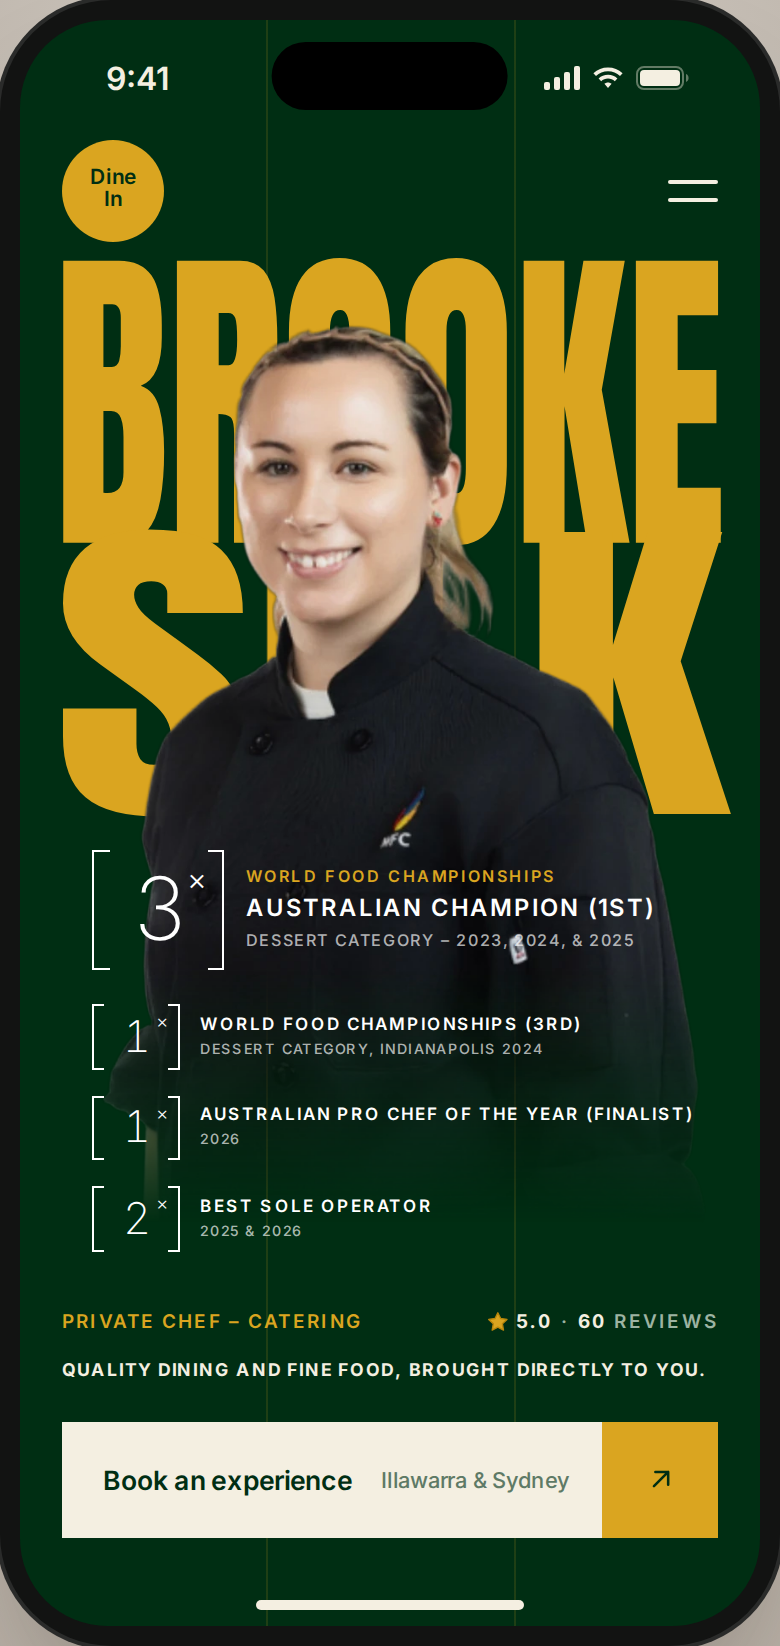
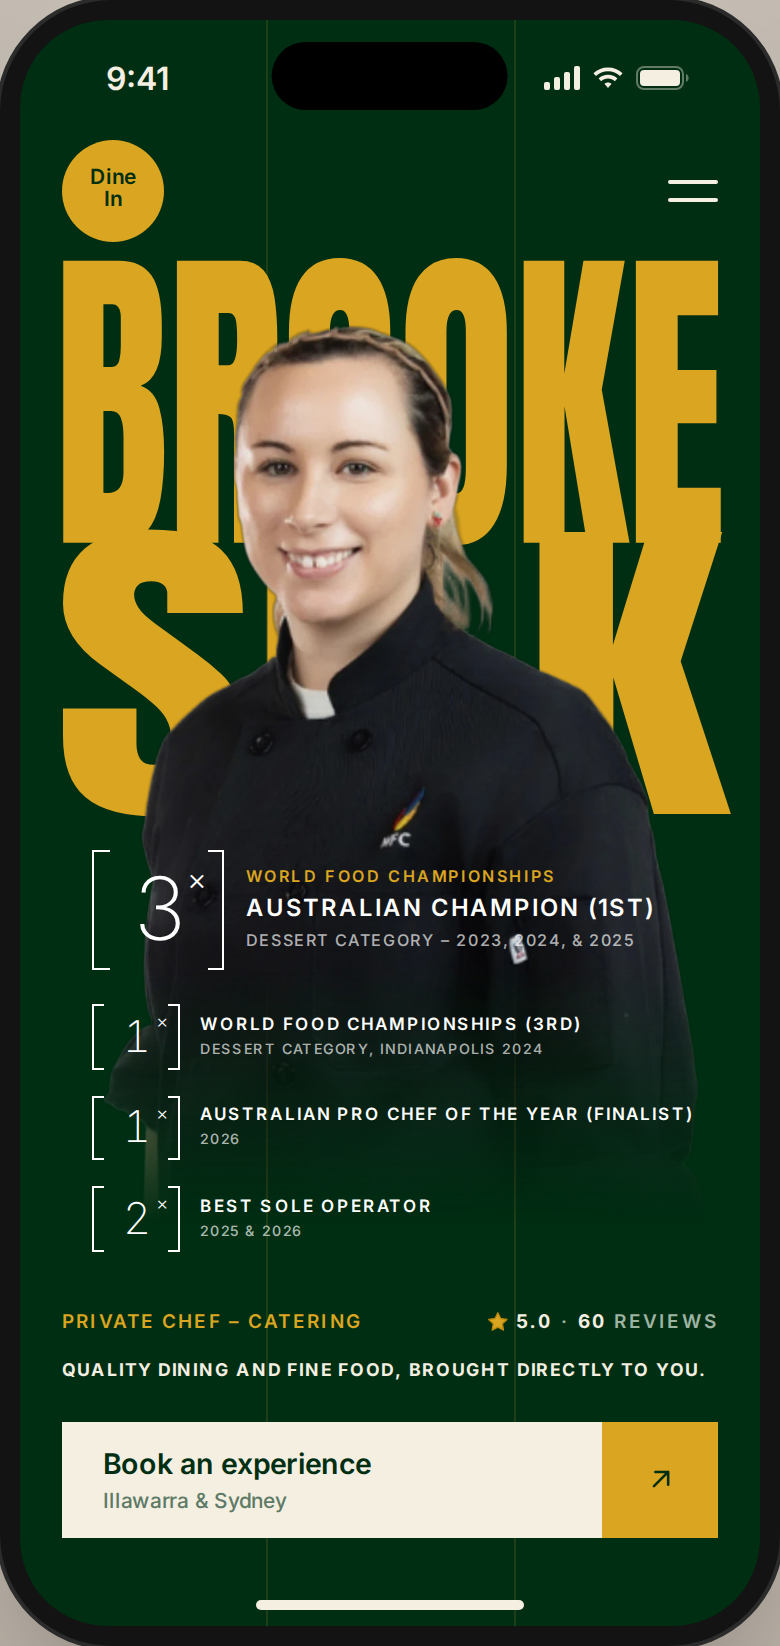
Chef card: service area under the button label
"Illawarra & Sydney" now sits under "Book an experience", left aligned,
instead of beside it. The label goes back to 15 design units, and the
note is 11.

Claude-Session: https://claude.ai/code/session_01Dn2sZdZCxPbGjUxXXUAMP8

Changed region(s): [[0.1231, 0.8676, 0.4923, 0.9295], [0.4923, 0.8985, 0.6154, 0.9295], [0.6462, 0.8985, 0.7077, 0.9295]]

diff --git a/components/chef-card/style.css b/components/chef-card/style.css
@@ -369,14 +369,16 @@
   text-decoration: none;
 }
 
+/* Label on top, service area underneath */
 .ui-chef__cta-label {
   flex: 1;
   display: flex;
-  justify-content: space-between;
-  align-items: center;
-  gap: calc(12 * var(--u));
+  flex-direction: column;
+  justify-content: center;
+  align-items: flex-start;
+  gap: calc(4 * var(--u));
   padding: 0 calc(18 * var(--u)) 0 calc(22 * var(--u));
-  font-size: calc(14 * var(--u));
+  font-size: calc(15 * var(--u));
   font-weight: 600;
   letter-spacing: -0.01em;
   white-space: nowrap;
@@ -385,7 +387,7 @@
 .ui-chef__cta-note {
   white-space: nowrap;
   color: var(--ui-chef-cta-note);
-  font-size: calc(11.5 * var(--u));
+  font-size: calc(11 * var(--u));
   font-weight: 500;
 }
 

diff --git a/components/chef-card/README.md b/components/chef-card/README.md
@@ -17,7 +17,7 @@ The Dine In edition of the [profile card](../profile-card/), for private chef Br
     The bracket shows how many times, and the placing sits in brackets after the title. The lead award has a bigger bracket and title, so it stands out from the three smaller ones below it.
   - Meta row: "Private chef – Catering" in gold on the left, and her Google rating (★ 5.0 · 60 reviews) on the right.
   - Tagline: "Quality dining and fine food, brought directly to you." in tracked ivory uppercase, on one line. It's sized to fit the full width of the card, so a longer tagline needs a smaller `font-size` on `.ui-chef__tagline`.
-  - Button: an ivory bar with "Book an experience" and the service area "Illawarra & Sydney", plus a gold square with an arrow.
+  - Button: an ivory bar with "Book an experience" and the service area "Illawarra & Sydney" underneath it, plus a gold square with an arrow.
 - **Grid:** two faint gold hairlines divide the card into thirds, behind everything.
 - **Colours:** Dine In green `#002E13` and gold `#DAA520`, both taken from the Dine In logo, with a warm ivory `#F4EFE1` for text and the button.
 - **Intro:** the same as the profile card, played the first time the card scrolls into view. Until their turn, the stat, meta row, tagline and button show as skeleton bars in a faint ivory tint.
